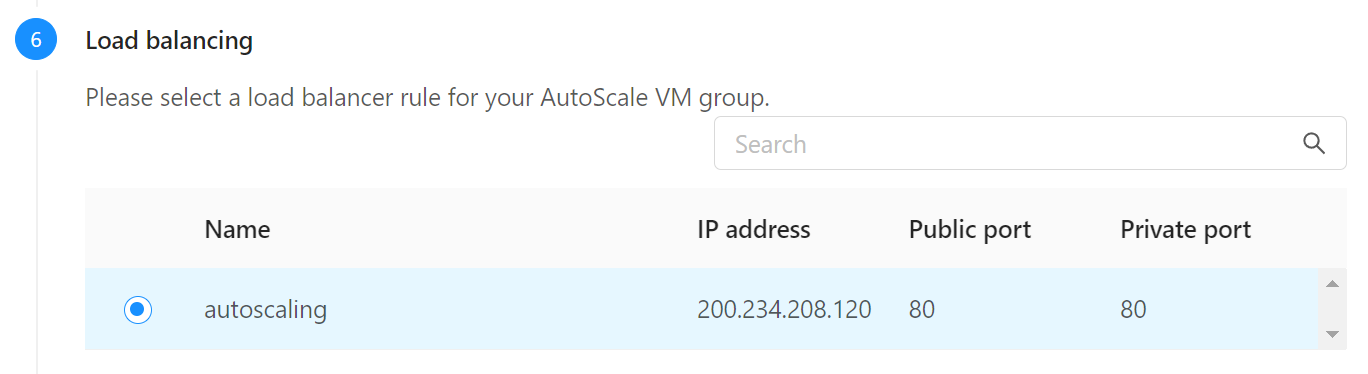
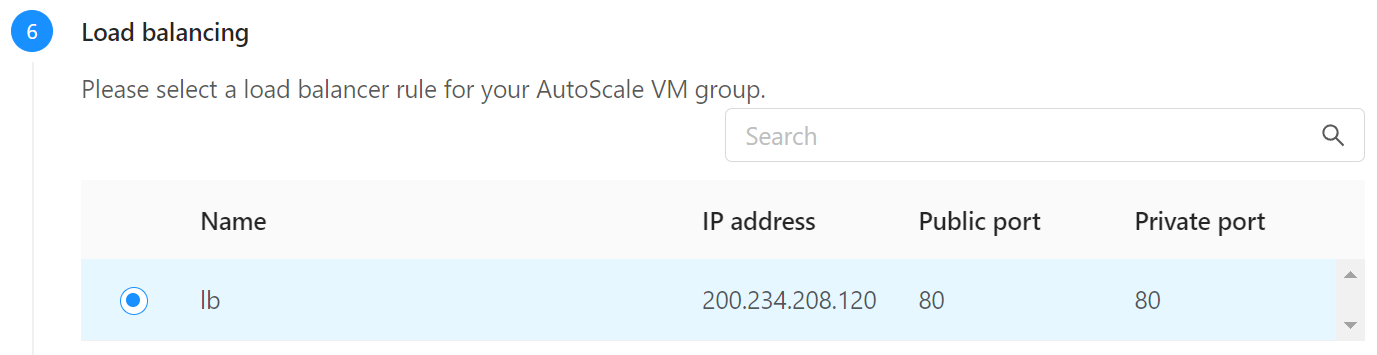
atualizar load balancing

diff --git a/docs/tutoriais/loadbalancing.md b/docs/tutoriais/loadbalancing.md
@@ -14,11 +14,10 @@ No menu de navegação à esquerda clique em __Compute__, __Instances__ e clique
 ## Criação do Load Balancer
 
 1. No menu à esquerda selecione __Network__, __Guest networks__ e clique na rede _minha-rede_
-2. Clique na aba __Public IP addresses__ e no endereço criado no tutorial anterior para o acesso à web para instância criada a partir do template.
-3. Em __Port forwarding__, __remova__ o encaminhamento da porta 80 criado para a instância _teste-template_
-![Remove rule](remove-rule.png)
+2. Clique sobre o IP que alocamos via _Static NAT_ para _teste_template_, por exemplo `200.234.208.120`
+3. Clique em __Disable static NAT__ para liberar o IP.
 4. Clique na aba __Load balancing__ e preencha conforme:
-    * __Name__: _autoscaling_
+    * __Name__: _lb_
     * __Public port__: _80_
     * __Private port__: _80_
     * __CIDR list__: _0.0.0.0/0_
@@ -37,9 +36,9 @@ No menu de navegação à esquerda clique em __Compute__, __Instances__ e clique
 2. Em __Compute offering__ escolha __TBD__
 3. Escolha a rede _minha-rede_
 ![Autoscale network](autoscale-network.png)
-4. Em __Load balancing__ mantenha a seleção da regra _autoscaling_ 
+4. Em __Load balancing__ mantenha a seleção da regra _lb_ 
 ![Autoscale load balancing](autoscale-loadbalancing.png)
-5. Em __ScaleUp policies__, ajuste o __Duration__ e __Quite time__ para 30 segundos, para encurtar o tempo de resposta no nosso teste de carga. Em __Counter__ escolhe _VM CPU - average percentage_, __Operator__: _Greater than_, __Threshold__: _70_ e pressione __Add condition__
+5. Em __ScaleUp policies__, ajuste o __Duration__ e __Quite time__ para 30 segundos, para encurtar o tempo de resposta no nosso teste de carga. Em __Counter__ escolha _VM CPU - average percentage_, __Operator__: _Greater than_, __Threshold__: _70_ e pressione __Add condition__
 ![ScaleUp](scaleup.png)
 5. Em __ScaleDown policies__, ajuste o __Duration__ e __Quite time__ para 30 segundos, para encurtar o tempo de resposta no nosso teste de carga. Em __Counter__ escolhe _VM CPU - average percentage_, __Operator__: _Less than_, __Threshold__: _20_ e pressione __Add condition__
 ![ScaleUp](scaledown.png)
@@ -52,7 +51,7 @@ write_files:
     content: |
       <?php
       // Escrito por Userdata
-      define('DB_HOST', '<ip_bd>'); // exemplo '10.1.1.120'
+      define('DB_HOST', '10.1.1.120'); // coloque o IP interno do bd
       define('DB_PASSWORD', '<senha_bd>');
       ?>
     owner: "www-data:www-data"

diff --git a/docs/tutoriais/templates.md b/docs/tutoriais/templates.md
@@ -366,7 +366,7 @@ Agora criaremos uma nova instância a partir do template:
 ![Select IP](select-ip.png)
 14. Clique sobre o IP. Vamos desvincula-lo da instância _web_:
 ![Disable static NAT](disable-static-nat.png)
-15. E agora vincule o mesmo IP à nova instância _teste-template_ seguindo o mesmo procedimento clicando em _Enable Static NAT_ e escolhendo a nova instância como destino.
+15. E agora vincule o mesmo IP à nova instância _teste-template_ seguindo o mesmo procedimento clicando em _Enable Static NAT_ e escolhendo-a como destino.
 16. Note que é necessário recriar as regras de firewall para o IP após ter sido remapeado para nova instância:
 ![Firewall template](firewall-template.png)
 
